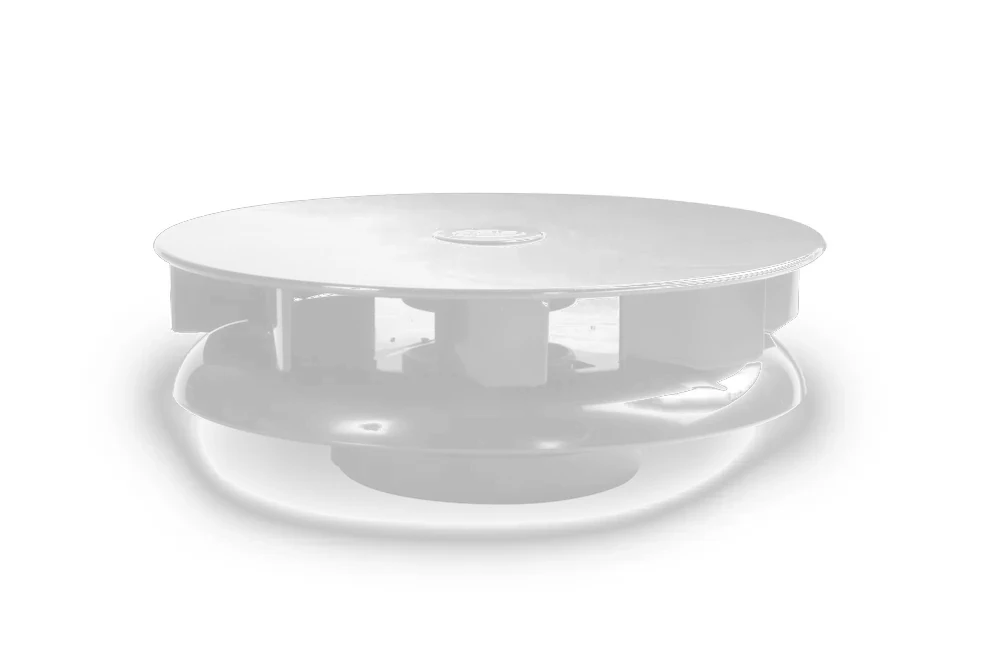
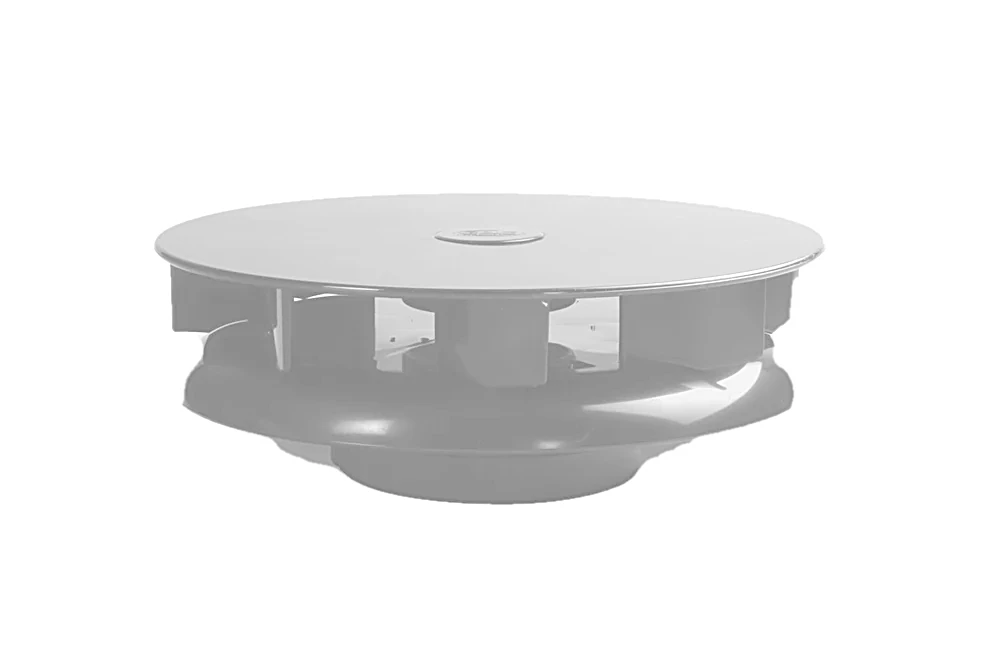
Ceilingflow: a fehér változat fotója elöl; Turbo III fehér: kontrasztos, éles átszínezés a lágy árnyékgyűrű nélkül
Claude-Session: https://claude.ai/code/session_01GqcGcrqDWYvNfyrVUkczEM

diff --git a/scripts/termekadatok/gnc_szinek.py b/scripts/termekadatok/gnc_szinek.py
@@ -25,7 +25,7 @@ from common import ROOT, is_protected  # noqa: E402
 RECOLOR = {
     "tetoventilator-manualis-fekete": ("tetoventilator-manualis-feher", "fekete"),
     "02-2200-zw-le-mans-tetoventilator-12v": ("le-mans-tetoventilator-12v", "fekete"),
-    "turbo-iii-tetoventilator-feher": ("turbo-iii-tetoventilator-fekete", "feher"),
+    "turbo-iii-tetoventilator-feher": ("turbo-iii-tetoventilator-fekete", "feher", "kontraszt"),  # a Quadris kérésére élesebb
     "turbo-ii-tetoventilator-feher": ("turbo-ii-tetoventilator-fekete", "feher"),
     "ventillator-belso-takaro": ("ventillator-belso-takaro-szurke", "feher"),
     "ventillator-belso-takaro-12-24v-led": ("ventillator-belso-takaro-szurke", "feher"),
@@ -80,7 +80,37 @@ def disk_mask(lum):
     return mask > 0
 
 
-def recolor(img, target, disk=False):
+def white_from_dark(img):
+    """Fekete fotóból kontrasztos fehér változat (Turbo III): a termék körvonala a sötét test és a fölötte lévő
+    fedélsáv uniója (a világos fedél tónusa átfed a lágy árnyékéval, ezért nem elég a világosság); a körvonalon
+    kívül tiszta fehér, belül a tónusok 140–244 közé képezve (a fedél a háttér alatt marad, így a széle látszik)."""
+    rgba = img.convert("RGBA")
+    a = np.asarray(rgba).astype(float)
+    rgb, alpha = a[..., :3], a[..., 3]
+    lum = rgb.mean(axis=2)
+    el = lambda d: cv2.getStructuringElement(cv2.MORPH_ELLIPSE, (d, d))
+    body = cv2.morphologyEx((lum < 60).astype(np.uint8), cv2.MORPH_CLOSE, el(31))
+    n, lab, st, _ = cv2.connectedComponentsWithStats(body, connectivity=8)
+    body = (lab == 1 + int(np.argmax(st[1:, cv2.CC_STAT_AREA]))).astype(np.uint8)
+    ys = np.where(body.any(axis=1))[0]
+    lid = ((lum < 205) & (np.arange(lum.shape[0])[:, None] < ys.min() + 25)).astype(np.uint8)
+    sil = cv2.morphologyEx(body | lid, cv2.MORPH_CLOSE, el(15)) * 255
+    cnts, _ = cv2.findContours(sil, cv2.RETR_EXTERNAL, cv2.CHAIN_APPROX_SIMPLE)
+    cv2.drawContours(sil, cnts, -1, 255, thickness=-1)
+    sil = cv2.GaussianBlur(sil.astype(np.float32) / 255, (0, 0), 1.0)
+    p1, p99 = np.percentile(lum[sil > 0.5], [1, 99])
+    t = np.clip((lum - p1) / max(p99 - p1, 1), 0, 1) ** 0.8
+    new = 140 + t * (244 - 140)
+    out = new[..., None] * sil[..., None] + 255 * (1 - sil[..., None])
+    res = Image.fromarray(np.dstack([np.repeat(np.clip(out, 0, 255), 3, axis=2), alpha]).astype(np.uint8), "RGBA")
+    from PIL import ImageFilter
+    sharp = res.convert("RGB").filter(ImageFilter.UnsharpMask(radius=2, percent=80, threshold=2))
+    return Image.merge("RGBA", (*sharp.split(), res.split()[3]))
+
+
+def recolor(img, target, disk=False, contrast=False):
+    if contrast and target == "feher":
+        return white_from_dark(img)
     rgba = img.convert("RGBA")
     a = np.asarray(rgba).astype(float)
     rgb, alpha = a[..., :3], a[..., 3]
@@ -110,7 +140,7 @@ def recolor(img, target, disk=False):
         w = np.clip((170 - lum) / 30, 0, 1)
         out[dark] = rgb[dark] * (1 - w[dark][:, None]) + np.repeat(new[dark][:, None], 3, axis=1) * w[dark][:, None]
     else:
-        lo, hi = RANGE[target]
+        lo, hi = (105, 250) if contrast and target == "feher" else RANGE[target]  # kontraszt: mélyebb árnyékok
         # sötétből világosba: csak a termék sötét részei (a világos, lágy árnyék a háttéren maradjon)
         body = mask if light_src else mask & (lum < 170)
         vals = lum[body]
@@ -124,7 +154,12 @@ def recolor(img, target, disk=False):
         soft = cv2.GaussianBlur(mask.astype(np.float32), (0, 0), 1.2)[..., None]
         out = out * soft + 255 * (1 - soft)
     res = np.dstack([np.clip(out, 0, 255), alpha]).astype(np.uint8)
-    return Image.fromarray(res, "RGBA")
+    img = Image.fromarray(res, "RGBA")
+    if contrast:  # élesítés
+        from PIL import ImageFilter
+        rgb_s = img.convert("RGB").filter(ImageFilter.UnsharpMask(radius=2, percent=90, threshold=2))
+        img = Image.merge("RGBA", (*rgb_s.split(), img.split()[3]))
+    return img
 
 
 def main():
@@ -140,7 +175,7 @@ def main():
         keep = ORIG / f"{src}.webp"
         if not keep.exists():
             keep.write_bytes(src_path.read_bytes())
-        out = recolor(Image.open(keep), target, disk="korong" in mode)
+        out = recolor(Image.open(keep), target, disk="korong" in mode, contrast="kontraszt" in mode)
         if is_protected(dst_img[0]):  # kézzel feljavított kép: marad
             continue
         out.save(ROOT / "public" / dst_img[0].lstrip("/"), "WEBP", quality=90)

diff --git a/scripts/termekadatok/gnc_ceilingflow.py b/scripts/termekadatok/gnc_ceilingflow.py
@@ -32,7 +32,7 @@ SPECS = {
     "Zajszint [dB(A)]": "35 (alacsony) – 47 (magas fokozat)",
     "Méret": "595 × 595 mm (álmennyezeti kazetta helyére)",
     "Beépítési magasság": "166 mm",
-    "Szín": "fekete (24-0008) / fehér (24-0009)",
+    "Szín": "fehér / fekete",
     "Anyag": "újrahasznosítható ABS",
     "Motor": "kefe nélküli, rövidzárlat és túlfeszültség elleni védelemmel",
     "Távirányító": "tartozék (távirányító nélkül is működtethető)",
@@ -64,10 +64,10 @@ def main():
     # az adatlap képei: a fekete változat (a fehér alatt, jobbra) és a távirányító
     black = next(img for (x0, y0, x1, y1), img in by_pos.items() if x0 > 100 and y0 > 250 and x1 < 320)
     remote = next(img for (x0, y0, x1, y1), img in by_pos.items() if 170 < x0 < 200 and y0 > 190 and x1 < 270)
-    images = [save_image(black, SLUG, 1)]
-    for suffix, path in WEB:
-        images.append(save_image(Image.open(io.BytesIO(fetch(UP + path))), SLUG, suffix))
-    images.append(save_image(remote, SLUG, "taviranyito"))
+    web = {suffix: save_image(Image.open(io.BytesIO(fetch(UP + path))), SLUG, suffix) for suffix, path in WEB}
+    # a Quadris kérésére a fehér változat elöl (a G&C adatlapja szerint a 24-0008 a fekete, a 24-0009 a fehér)
+    images = [web["feher"], web["feher-alulrol"], save_image(black, SLUG, "fekete"), web["meretrajz"],
+              save_image(remote, SLUG, "taviranyito")]
 
     docs = ROOT / "public/dokumentumok"
     docs.mkdir(parents=True, exist_ok=True)
